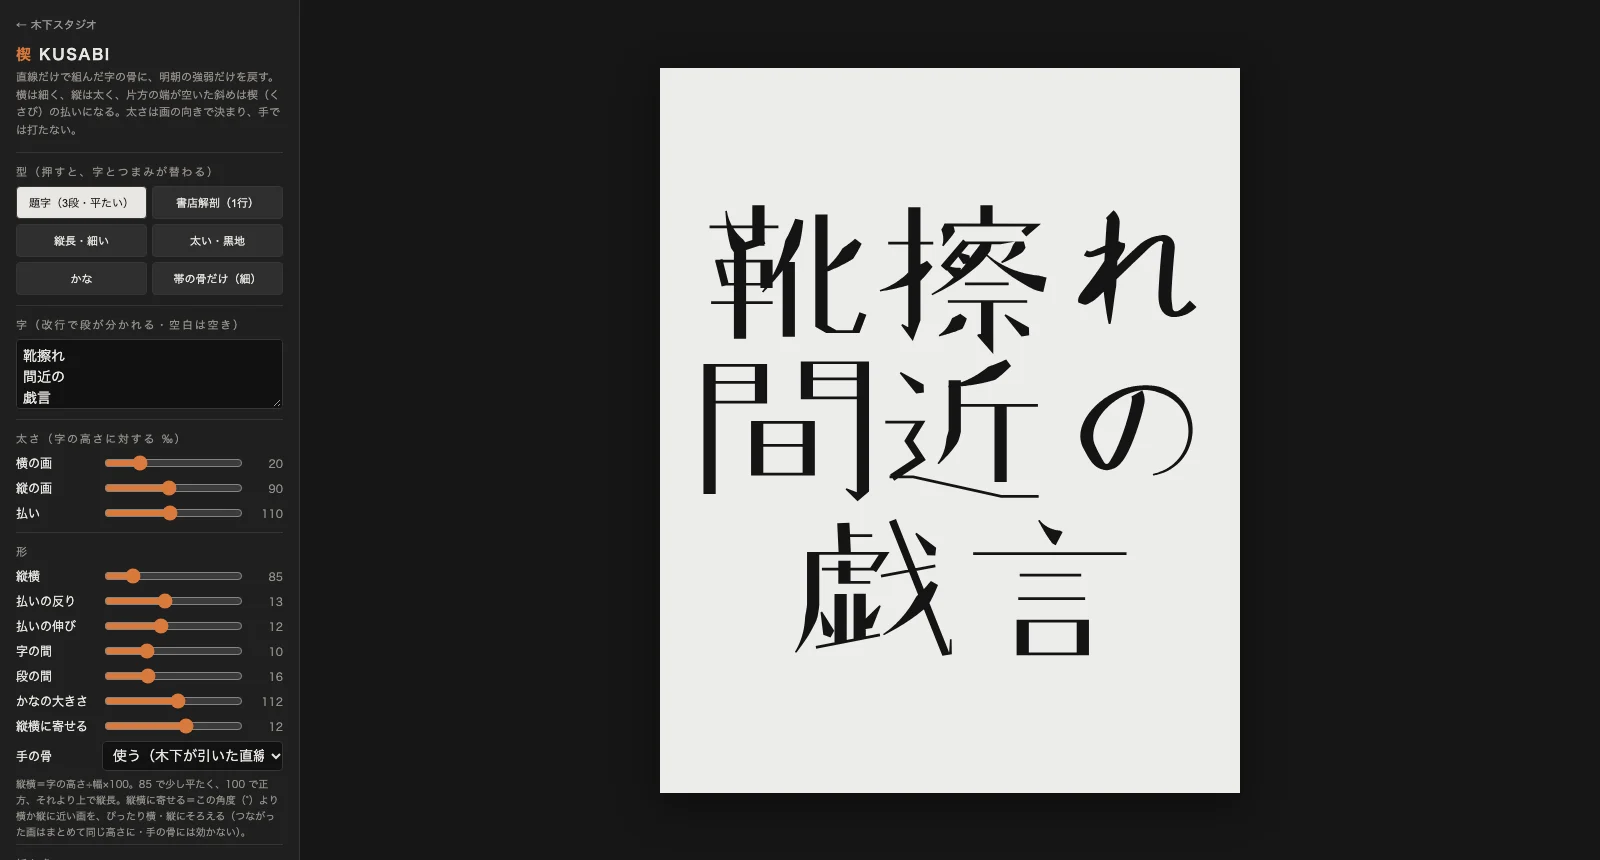
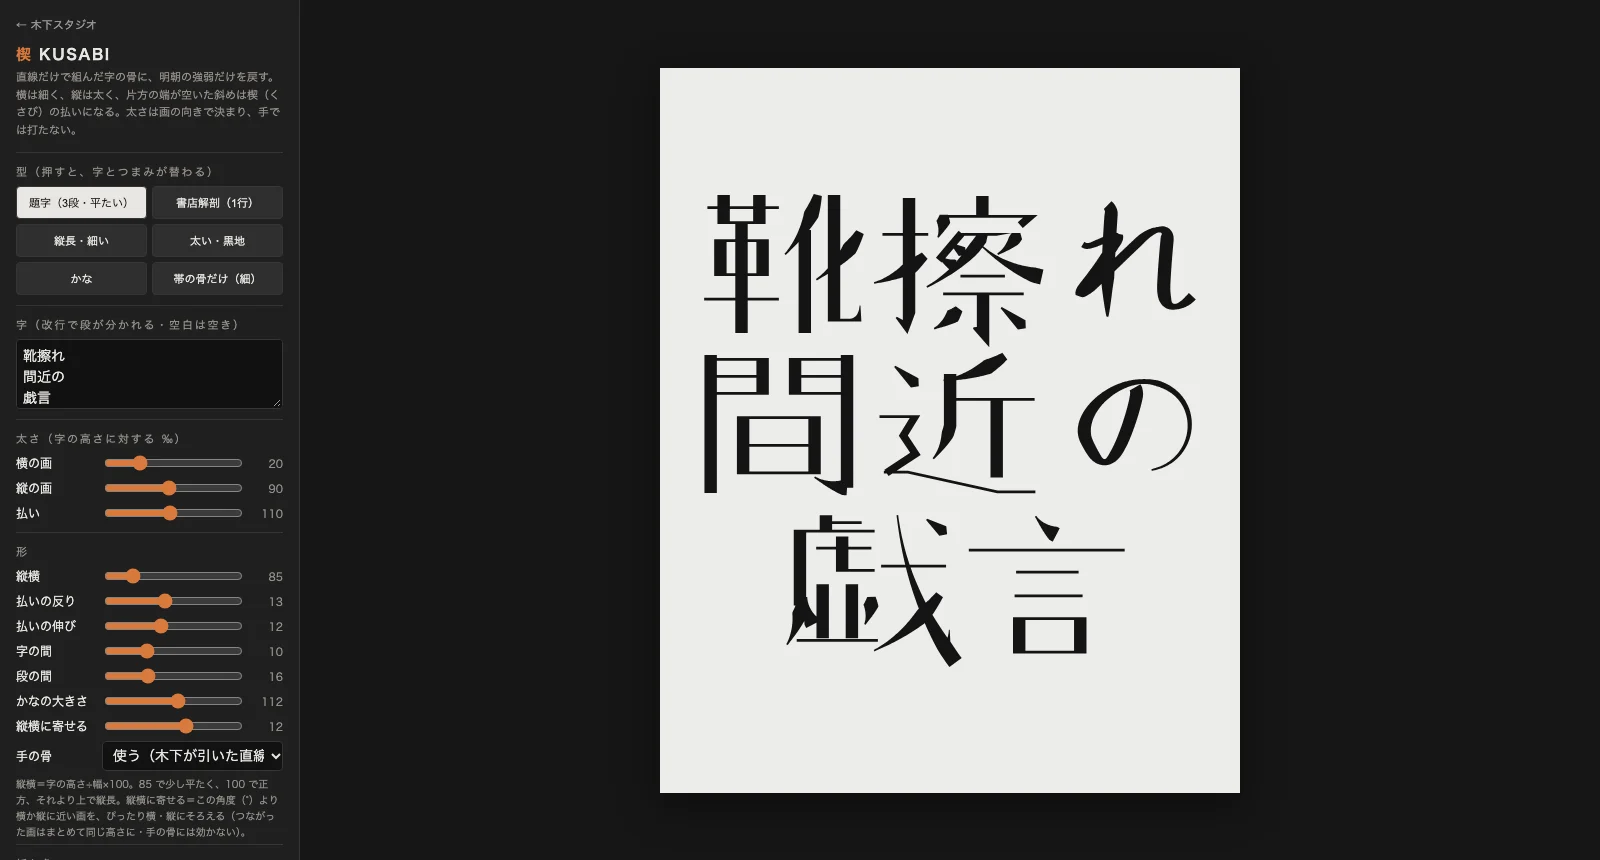
kusabi: 継ぎ目を明朝に寄せる＝はねは幹の下を回り込み内側はくぼんだ曲線で溶ける・横から立つはね（乚）も同じ・手の骨に 化 門 間 九 乙 靴 戯

Changed region(s): [[0.4375, 0.2116, 0.75, 0.5744], [0.4688, 0.6047, 0.7188, 0.786]]

diff --git a/kusabi/index.html b/kusabi/index.html
@@ -99,7 +99,7 @@ const K=['th','tv','tw','asp','bow','reach','gap','rgap','kana','snap','margin']
 const TXT=['txt','hand','paper','c0','c1','bg','outpx'];
 const v=id=>+$(id).value;
 // 木下が引いた直線の骨（幅100×高さ260 の枠の線分）
-const HAND={"開":[[8,0,8,260],[92,0,92,260],[8,8,44,8],[8,40,44,40],[8,72,44,72],[44,8,44,72],[56,8,92,8],[56,40,92,40],[56,72,92,72],[56,8,56,72],[22,128,78,128],[14,172,86,172],[40,128,30,236],[62,128,62,236]],"業":[[38,6,38,84],[62,6,62,84],[14,30,26,62],[86,30,74,62],[6,84,94,84],[20,114,80,114],[10,144,90,144],[4,178,96,178],[50,84,50,260],[50,188,8,252],[50,188,92,252]],"記":[[17,2,22,18],[0,34,40,34],[6,66,34,66],[6,96,34,96],[4,126,4,204],[36,126,36,204],[4,126,36,126],[4,204,36,204],[52,20,94,20],[94,20,94,112],[56,112,94,112],[56,112,56,236],[56,236,96,236],[96,236,96,210]],"念":[[50,0,6,84],[50,0,94,84],[34,98,66,98],[16,128,82,128],[82,128,54,170],[2,192,8,226],[32,186,32,250],[32,250,86,250],[86,250,94,226],[50,190,58,216],[78,184,88,210]],"懲":[[22,0,4,28],[24,36,2,68],[14,52,14,164],[34,6,34,24],[50,0,50,24],[66,6,66,24],[34,24,66,24],[30,42,70,42],[34,66,66,66],[36,94,64,94],[30,124,70,124],[50,66,50,124],[82,2,74,30],[76,24,98,24],[95,24,70,140],[76,66,98,140],[8,198,4,234],[30,180,30,250],[30,250,86,250],[86,250,94,226],[52,186,60,212],[80,180,90,206]],"前":[[28,0,36,24],[72,0,64,24],[2,40,98,40],[12,70,12,210],[12,210,4,256],[12,70,52,70],[52,70,52,256],[52,256,40,248],[12,130,52,130],[12,188,52,188],[74,80,74,200],[92,64,92,256],[92,256,80,246]],"毖":[[16,8,16,100],[16,54,42,44],[16,100,44,90],[60,6,60,98],[60,98,94,98],[94,98,94,82],[88,36,60,58],[8,170,4,214],[34,146,34,244],[34,244,86,244],[86,244,94,218],[52,150,60,180],[84,140,94,170],[88,126,18,258]],"後":[[24,0,4,30],[26,40,2,74],[15,58,15,260],[58,0,40,34],[40,34,70,34],[70,34,46,78],[46,78,88,72],[80,52,92,82],[60,102,36,152],[50,128,92,128],[92,128,40,252],[60,172,98,256]],"店":[[50,0,54,18],[6,28,98,28],[10,28,10,200],[10,200,0,256],[56,44,56,140],[56,92,92,92],[28,150,28,250],[88,150,88,250],[28,150,88,150],[28,250,88,250]],"準":[[4,6,14,22],[2,46,12,62],[0,118,14,86],[42,0,30,40],[36,24,36,150],[66,0,70,14],[44,22,96,22],[48,58,92,58],[48,92,92,92],[44,126,96,126],[66,22,66,126],[0,180,100,180],[50,150,50,260]],"備":[[24,0,4,60],[14,36,14,260],[30,30,98,30],[48,6,48,54],[78,6,78,54],[32,72,96,72],[38,72,30,256],[52,100,52,250],[92,100,92,256],[52,100,92,100],[52,150,92,150],[52,200,92,200],[72,100,72,240],[92,256,82,248]],"書":[[20,10,80,10],[80,10,80,94],[6,36,94,36],[20,62,80,62],[10,94,90,94],[50,0,50,124],[2,124,98,124],[20,150,20,256],[80,150,80,256],[20,150,80,150],[20,203,80,203],[20,256,80,256]],"解":[[20,0,4,30],[20,8,40,8],[40,8,28,34],[8,40,8,256],[8,40,44,40],[44,40,44,256],[44,256,34,248],[8,110,44,110],[8,176,44,176],[26,40,26,176],[58,10,96,10],[96,10,96,90],[96,90,86,82],[76,10,56,96],[66,120,58,150],[60,140,96,140],[54,190,100,190],[78,110,78,260]],"剖":[[30,0,34,20],[4,32,60,32],[16,48,24,94],[50,48,42,94],[0,104,62,104],[8,140,8,250],[54,140,54,250],[8,140,54,140],[8,250,54,250],[74,30,74,190],[94,10,94,256],[94,256,82,246]],"出":[[50,0,50,256],[14,20,14,120],[14,120,86,120],[86,120,86,20],[4,140,4,256],[4,256,96,256],[96,256,96,140]],"張":[[4,10,38,10],[38,10,38,80],[6,80,38,80],[6,80,6,150],[6,150,40,150],[40,150,36,250],[36,250,24,242],[60,4,60,124],[60,4,94,4],[60,44,90,44],[60,84,90,84],[50,124,100,124],[62,124,56,256],[56,256,74,232],[80,124,100,256],[76,190,98,150]],"無":[[30,0,10,40],[24,20,94,20],[4,64,96,64],[2,130,98,130],[28,20,28,130],[50,20,50,130],[72,20,72,130],[8,180,2,240],[36,180,40,240],[64,180,68,240],[90,176,98,236]],"料":[[10,10,16,40],[40,10,32,40],[0,60,48,60],[24,0,24,256],[24,60,2,160],[24,60,46,140],[62,30,72,54],[60,80,72,104],[52,150,100,136],[84,0,84,260]],"火":[[10,60,18,110],[90,56,80,110],[50,0,50,140],[50,140,2,256],[50,140,98,256]],"気":[[30,0,6,60],[24,26,94,26],[24,64,84,64],[14,100,78,100],[78,100,86,240],[86,240,100,228],[22,140,60,220],[60,140,18,230]],"厳":[[20,0,26,16],[48,0,50,18],[80,0,72,18],[4,30,98,30],[10,30,10,190],[10,190,0,256],[22,56,56,56],[28,56,28,240],[52,56,52,250],[28,110,52,110],[28,160,52,160],[20,220,60,206],[76,48,66,90],[70,80,100,80],[96,80,64,250],[70,140,100,250]],"全":[[50,0,4,72],[50,0,96,72],[22,104,78,104],[16,172,84,172],[4,250,96,250],[50,104,50,250]],"力":[[6,62,90,62],[90,62,86,250],[86,250,70,238],[46,0,46,140],[46,140,6,256]],"ー":[[2,130,98,130]],"：":[[25,86,25,104],[25,178,25,196]],"・":[[25,126,25,140]],"禁":[[0,30,46,30],[24,0,24,120],[24,30,2,96],[24,30,46,80],[54,30,100,30],[76,0,76,120],[76,30,54,96],[76,30,98,90],[22,144,78,144],[4,180,96,180],[50,180,50,256],[50,256,38,246],[24,206,6,240],[76,206,94,240]],"消":[[6,30,22,56],[2,104,20,128],[2,240,24,170],[44,10,52,40],[70,0,70,50],[96,10,88,40],[44,70,44,256],[44,70,94,70],[94,70,94,256],[94,256,80,248],[44,130,94,130],[44,190,94,190]],"部":[[22,0,26,20],[4,30,54,30],[14,46,20,90],[44,46,38,90],[2,100,56,100],[8,130,8,250],[8,130,50,130],[50,130,50,250],[8,250,50,250],[70,10,70,260],[70,10,96,10],[96,10,80,80],[80,80,96,140],[96,140,72,170]],"見":[[14,0,14,170],[86,0,86,170],[14,0,86,0],[14,56,86,56],[14,112,86,112],[14,170,86,170],[36,170,4,256],[64,170,64,240],[64,240,98,240]],"小":[[50,0,50,250],[50,250,34,236],[24,90,4,200],[76,90,96,200]],"作":[[30,0,4,110],[18,70,18,260],[50,0,38,70],[44,40,98,40],[54,40,54,260],[54,120,94,120],[54,190,94,190]],"完":[[50,0,50,20],[6,30,6,70],[6,30,94,30],[94,30,94,70],[24,90,76,90],[4,140,96,140],[36,140,6,256],[64,140,64,240],[64,240,98,240]],"成":[[8,64,96,64],[12,64,12,190],[12,190,0,256],[12,128,44,128],[44,128,40,214],[40,214,26,208],[58,0,62,120],[62,120,98,250],[96,140,46,254],[80,12,94,34]],"五":[[10,10,90,10],[44,10,30,240],[16,110,80,110],[80,110,76,240],[2,248,98,248]],"金":[[50,0,4,80],[50,0,96,80],[26,100,74,100],[10,150,90,150],[50,100,50,250],[24,180,34,220],[76,180,66,220],[2,252,98,252]],"百":[[2,8,98,8],[52,8,40,70],[12,70,12,256],[88,70,88,256],[12,70,88,70],[12,162,88,162],[12,256,88,256]],"集":[[28,0,6,60],[18,30,18,130],[18,30,94,30],[56,0,52,130],[18,80,88,80],[18,130,96,130],[2,178,98,178],[50,130,50,260],[50,186,4,250],[50,186,96,250]],"木":[[2,72,98,72],[50,0,50,260],[50,84,6,206],[50,84,94,206]],"下":[[2,20,98,20],[44,20,44,260],[44,110,90,150]],"字":[[50,0,50,22],[6,32,6,74],[6,32,94,32],[94,32,94,74],[20,100,80,100],[80,100,50,140],[50,140,50,250],[50,250,32,240],[2,170,98,170]],"音":[[50,0,50,22],[10,30,90,30],[28,46,36,84],[72,46,64,84],[2,100,98,100],[16,124,16,256],[84,124,84,256],[16,124,84,124],[16,190,84,190],[16,256,84,256]],"波":[[6,30,22,56],[2,104,20,128],[2,240,24,170],[42,56,98,56],[98,56,92,96],[70,0,70,130],[42,56,42,150],[42,150,32,256],[48,140,92,140],[92,140,44,256],[58,180,98,256]],"粒":[[10,40,16,72],[40,40,34,72],[2,98,48,98],[25,0,25,260],[25,112,4,190],[25,112,46,170],[76,0,76,30],[56,42,98,42],[62,74,70,180],[92,74,84,180],[54,250,98,250]],"光":[[50,0,50,110],[16,30,28,90],[84,30,72,90],[2,116,98,116],[36,116,30,200],[30,200,4,256],[64,116,64,236],[64,236,98,236]],"0":[[30,0,70,0],[70,0,96,40],[96,40,96,220],[96,220,70,260],[70,260,30,260],[30,260,4,220],[4,220,4,40],[4,40,30,0]],"1":[[60,0,60,260],[60,0,22,52]],"2":[[6,48,34,4],[34,4,70,4],[70,4,94,44],[94,44,94,96],[94,96,6,256],[6,256,96,256]],"3":[[6,32,30,4],[30,4,72,4],[72,4,94,30],[94,30,94,100],[94,100,70,126],[36,126,70,126],[70,126,96,156],[96,156,96,226],[96,226,70,256],[70,256,28,256],[28,256,4,228]],"4":[[66,0,4,180],[4,180,98,180],[70,90,70,260]],"5":[[92,4,14,4],[14,4,8,122],[8,122,70,104],[70,104,96,140],[96,140,96,222],[96,222,68,256],[68,256,26,256],[26,256,4,226]],"6":[[88,22,64,2],[64,2,32,2],[32,2,4,40],[4,40,4,220],[4,220,30,256],[30,256,70,256],[70,256,96,220],[96,220,96,150],[96,150,70,116],[70,116,4,124]],"7":[[4,4,96,4],[96,4,40,260]],"8":[[30,0,70,0],[70,0,90,26],[90,26,90,100],[90,100,70,124],[70,124,30,124],[30,124,10,100],[10,100,10,26],[10,26,30,0],[30,124,4,150],[4,150,4,226],[4,226,30,256],[30,256,70,256],[70,256,96,226],[96,226,96,150],[96,150,70,124]],"9":[[12,238,36,258],[36,258,68,258],[68,258,96,220],[96,220,96,40],[96,40,70,4],[70,4,30,4],[30,4,4,40],[4,40,4,110],[4,110,30,144],[30,144,96,136]],"中":[[10,60,10,190],[90,60,90,190],[10,60,90,60],[10,190,90,190],[50,0,50,260]],"預":[[6,20,44,20],[44,20,24,62],[10,84,48,84],[48,84,40,104],[28,62,28,250],[28,250,16,240],[54,10,98,10],[76,10,70,40],[58,40,58,190],[94,40,94,190],[58,40,94,40],[58,90,94,90],[58,140,94,140],[58,190,94,190],[66,190,52,256],[86,190,98,256]],"札":[[2,70,46,70],[24,0,24,260],[24,90,2,190],[24,90,44,150],[64,10,64,236],[64,236,80,252],[80,252,98,252],[98,252,98,200]],"古":[[2,62,98,62],[50,0,50,124],[14,124,14,256],[86,124,86,256],[14,124,86,124],[14,256,86,256]],"本":[[2,72,98,72],[50,0,50,260],[50,84,4,200],[50,84,96,200],[26,206,74,206]],"市":[[50,0,50,30],[2,40,98,40],[14,90,14,232],[14,90,86,90],[86,90,86,232],[86,232,72,222],[50,40,50,260]],"領":[[26,0,2,60],[26,0,48,60],[18,72,34,86],[6,112,46,112],[46,112,38,144],[26,144,26,252],[54,10,98,10],[76,10,70,40],[58,40,58,190],[94,40,94,190],[58,40,94,40],[58,90,94,90],[58,140,94,140],[58,190,94,190],[66,190,52,256],[86,190,98,256]],"収":[[10,40,10,204],[10,204,34,184],[34,8,34,250],[50,40,92,40],[92,40,48,252],[58,96,98,252]],"¥":[[10,0,50,110],[90,0,50,110],[50,110,50,260],[14,146,86,146],[14,196,86,196]],",":[[32,200,20,250]],"-":[[10,130,90,130]],"之":[[44,0,56,34],[10,66,86,66],[86,66,16,184],[16,184,4,250],[16,184,98,248]],"印":[[40,6,8,32],[8,32,8,222],[8,124,40,124],[8,222,44,204],[56,22,94,22],[94,22,94,200],[94,200,80,190],[56,22,56,260]],"香":[[80,4,32,26],[2,56,98,56],[50,14,50,124],[50,62,4,120],[50,62,96,120],[14,136,86,136],[14,136,14,260],[86,136,86,260],[14,198,86,198],[14,258,86,258]],"氷":[[12,40,28,70],[52,0,52,250],[52,250,36,232],[6,100,36,100],[36,100,2,210],[94,60,58,124],[58,124,98,252]],"余":[[50,0,0,98],[50,0,100,98],[26,104,74,104],[6,150,94,150],[50,104,50,258],[40,180,2,250],[62,180,94,240]],"韻":[[22,22,34,36],[2,44,48,44],[12,54,28,86],[42,52,24,88],[0,98,58,98],[6,112,6,252],[6,112,58,112],[6,182,58,182],[6,252,58,252],[58,0,58,50],[96,0,96,50],[58,0,96,0],[58,50,96,50],[58,64,58,206],[96,64,96,206],[58,64,96,64],[58,112,96,112],[58,160,96,160],[58,206,96,206],[70,212,30,262],[82,212,104,258]]};
+const HAND={"開":[[8,0,8,260],[92,0,92,260],[8,8,44,8],[8,40,44,40],[8,72,44,72],[44,8,44,72],[56,8,92,8],[56,40,92,40],[56,72,92,72],[56,8,56,72],[22,128,78,128],[14,172,86,172],[40,128,30,236],[62,128,62,236]],"業":[[38,6,38,84],[62,6,62,84],[14,30,26,62],[86,30,74,62],[6,84,94,84],[20,114,80,114],[10,144,90,144],[4,178,96,178],[50,84,50,260],[50,188,8,252],[50,188,92,252]],"記":[[17,2,22,18],[0,34,40,34],[6,66,34,66],[6,96,34,96],[4,126,4,204],[36,126,36,204],[4,126,36,126],[4,204,36,204],[52,20,94,20],[94,20,94,112],[56,112,94,112],[56,112,56,236],[56,236,96,236],[96,236,96,210]],"念":[[50,0,6,84],[50,0,94,84],[34,98,66,98],[16,128,82,128],[82,128,54,170],[2,192,8,226],[32,186,32,250],[32,250,86,250],[86,250,94,226],[50,190,58,216],[78,184,88,210]],"懲":[[22,0,4,28],[24,36,2,68],[14,52,14,164],[34,6,34,24],[50,0,50,24],[66,6,66,24],[34,24,66,24],[30,42,70,42],[34,66,66,66],[36,94,64,94],[30,124,70,124],[50,66,50,124],[82,2,74,30],[76,24,98,24],[95,24,70,140],[76,66,98,140],[8,198,4,234],[30,180,30,250],[30,250,86,250],[86,250,94,226],[52,186,60,212],[80,180,90,206]],"前":[[28,0,36,24],[72,0,64,24],[2,40,98,40],[12,70,12,210],[12,210,4,256],[12,70,52,70],[52,70,52,256],[52,256,40,248],[12,130,52,130],[12,188,52,188],[74,80,74,200],[92,64,92,256],[92,256,80,246]],"毖":[[16,8,16,100],[16,54,42,44],[16,100,44,90],[60,6,60,98],[60,98,94,98],[94,98,94,82],[88,36,60,58],[8,170,4,214],[34,146,34,244],[34,244,86,244],[86,244,94,218],[52,150,60,180],[84,140,94,170],[88,126,18,258]],"後":[[24,0,4,30],[26,40,2,74],[15,58,15,260],[58,0,40,34],[40,34,70,34],[70,34,46,78],[46,78,88,72],[80,52,92,82],[60,102,36,152],[50,128,92,128],[92,128,40,252],[60,172,98,256]],"店":[[50,0,54,18],[6,28,98,28],[10,28,10,200],[10,200,0,256],[56,44,56,140],[56,92,92,92],[28,150,28,250],[88,150,88,250],[28,150,88,150],[28,250,88,250]],"準":[[4,6,14,22],[2,46,12,62],[0,118,14,86],[42,0,30,40],[36,24,36,150],[66,0,70,14],[44,22,96,22],[48,58,92,58],[48,92,92,92],[44,126,96,126],[66,22,66,126],[0,180,100,180],[50,150,50,260]],"備":[[24,0,4,60],[14,36,14,260],[30,30,98,30],[48,6,48,54],[78,6,78,54],[32,72,96,72],[38,72,30,256],[52,100,52,250],[92,100,92,256],[52,100,92,100],[52,150,92,150],[52,200,92,200],[72,100,72,240],[92,256,82,248]],"書":[[20,10,80,10],[80,10,80,94],[6,36,94,36],[20,62,80,62],[10,94,90,94],[50,0,50,124],[2,124,98,124],[20,150,20,256],[80,150,80,256],[20,150,80,150],[20,203,80,203],[20,256,80,256]],"解":[[20,0,4,30],[20,8,40,8],[40,8,28,34],[8,40,8,256],[8,40,44,40],[44,40,44,256],[44,256,34,248],[8,110,44,110],[8,176,44,176],[26,40,26,176],[58,10,96,10],[96,10,96,90],[96,90,86,82],[76,10,56,96],[66,120,58,150],[60,140,96,140],[54,190,100,190],[78,110,78,260]],"剖":[[30,0,34,20],[4,32,60,32],[16,48,24,94],[50,48,42,94],[0,104,62,104],[8,140,8,250],[54,140,54,250],[8,140,54,140],[8,250,54,250],[74,30,74,190],[94,10,94,256],[94,256,82,246]],"出":[[50,0,50,256],[14,20,14,120],[14,120,86,120],[86,120,86,20],[4,140,4,256],[4,256,96,256],[96,256,96,140]],"張":[[4,10,38,10],[38,10,38,80],[6,80,38,80],[6,80,6,150],[6,150,40,150],[40,150,36,250],[36,250,24,242],[60,4,60,124],[60,4,94,4],[60,44,90,44],[60,84,90,84],[50,124,100,124],[62,124,56,256],[56,256,74,232],[80,124,100,256],[76,190,98,150]],"無":[[30,0,10,40],[24,20,94,20],[4,64,96,64],[2,130,98,130],[28,20,28,130],[50,20,50,130],[72,20,72,130],[8,180,2,240],[36,180,40,240],[64,180,68,240],[90,176,98,236]],"料":[[10,10,16,40],[40,10,32,40],[0,60,48,60],[24,0,24,256],[24,60,2,160],[24,60,46,140],[62,30,72,54],[60,80,72,104],[52,150,100,136],[84,0,84,260]],"火":[[10,60,18,110],[90,56,80,110],[50,0,50,140],[50,140,2,256],[50,140,98,256]],"気":[[30,0,6,60],[24,26,94,26],[24,64,84,64],[14,100,78,100],[78,100,86,240],[86,240,100,228],[22,140,60,220],[60,140,18,230]],"厳":[[20,0,26,16],[48,0,50,18],[80,0,72,18],[4,30,98,30],[10,30,10,190],[10,190,0,256],[22,56,56,56],[28,56,28,240],[52,56,52,250],[28,110,52,110],[28,160,52,160],[20,220,60,206],[76,48,66,90],[70,80,100,80],[96,80,64,250],[70,140,100,250]],"全":[[50,0,4,72],[50,0,96,72],[22,104,78,104],[16,172,84,172],[4,250,96,250],[50,104,50,250]],"力":[[6,62,90,62],[90,62,86,250],[86,250,70,238],[46,0,46,140],[46,140,6,256]],"ー":[[2,130,98,130]],"：":[[25,86,25,104],[25,178,25,196]],"・":[[25,126,25,140]],"禁":[[0,30,46,30],[24,0,24,120],[24,30,2,96],[24,30,46,80],[54,30,100,30],[76,0,76,120],[76,30,54,96],[76,30,98,90],[22,144,78,144],[4,180,96,180],[50,180,50,256],[50,256,38,246],[24,206,6,240],[76,206,94,240]],"消":[[6,30,22,56],[2,104,20,128],[2,240,24,170],[44,10,52,40],[70,0,70,50],[96,10,88,40],[44,70,44,256],[44,70,94,70],[94,70,94,256],[94,256,80,248],[44,130,94,130],[44,190,94,190]],"部":[[22,0,26,20],[4,30,54,30],[14,46,20,90],[44,46,38,90],[2,100,56,100],[8,130,8,250],[8,130,50,130],[50,130,50,250],[8,250,50,250],[70,10,70,260],[70,10,96,10],[96,10,80,80],[80,80,96,140],[96,140,72,170]],"見":[[14,0,14,170],[86,0,86,170],[14,0,86,0],[14,56,86,56],[14,112,86,112],[14,170,86,170],[36,170,4,256],[64,170,64,240],[64,240,98,240]],"小":[[50,0,50,250],[50,250,34,236],[24,90,4,200],[76,90,96,200]],"作":[[30,0,4,110],[18,70,18,260],[50,0,38,70],[44,40,98,40],[54,40,54,260],[54,120,94,120],[54,190,94,190]],"完":[[50,0,50,20],[6,30,6,70],[6,30,94,30],[94,30,94,70],[24,90,76,90],[4,140,96,140],[36,140,6,256],[64,140,64,240],[64,240,98,240]],"成":[[8,64,96,64],[12,64,12,190],[12,190,0,256],[12,128,44,128],[44,128,40,214],[40,214,26,208],[58,0,62,120],[62,120,98,250],[96,140,46,254],[80,12,94,34]],"五":[[10,10,90,10],[44,10,30,240],[16,110,80,110],[80,110,76,240],[2,248,98,248]],"金":[[50,0,4,80],[50,0,96,80],[26,100,74,100],[10,150,90,150],[50,100,50,250],[24,180,34,220],[76,180,66,220],[2,252,98,252]],"百":[[2,8,98,8],[52,8,40,70],[12,70,12,256],[88,70,88,256],[12,70,88,70],[12,162,88,162],[12,256,88,256]],"集":[[28,0,6,60],[18,30,18,130],[18,30,94,30],[56,0,52,130],[18,80,88,80],[18,130,96,130],[2,178,98,178],[50,130,50,260],[50,186,4,250],[50,186,96,250]],"木":[[2,72,98,72],[50,0,50,260],[50,84,6,206],[50,84,94,206]],"下":[[2,20,98,20],[44,20,44,260],[44,110,90,150]],"字":[[50,0,50,22],[6,32,6,74],[6,32,94,32],[94,32,94,74],[20,100,80,100],[80,100,50,140],[50,140,50,250],[50,250,32,240],[2,170,98,170]],"音":[[50,0,50,22],[10,30,90,30],[28,46,36,84],[72,46,64,84],[2,100,98,100],[16,124,16,256],[84,124,84,256],[16,124,84,124],[16,190,84,190],[16,256,84,256]],"波":[[6,30,22,56],[2,104,20,128],[2,240,24,170],[42,56,98,56],[98,56,92,96],[70,0,70,130],[42,56,42,150],[42,150,32,256],[48,140,92,140],[92,140,44,256],[58,180,98,256]],"粒":[[10,40,16,72],[40,40,34,72],[2,98,48,98],[25,0,25,260],[25,112,4,190],[25,112,46,170],[76,0,76,30],[56,42,98,42],[62,74,70,180],[92,74,84,180],[54,250,98,250]],"光":[[50,0,50,110],[16,30,28,90],[84,30,72,90],[2,116,98,116],[36,116,30,200],[30,200,4,256],[64,116,64,236],[64,236,98,236]],"0":[[30,0,70,0],[70,0,96,40],[96,40,96,220],[96,220,70,260],[70,260,30,260],[30,260,4,220],[4,220,4,40],[4,40,30,0]],"1":[[60,0,60,260],[60,0,22,52]],"2":[[6,48,34,4],[34,4,70,4],[70,4,94,44],[94,44,94,96],[94,96,6,256],[6,256,96,256]],"3":[[6,32,30,4],[30,4,72,4],[72,4,94,30],[94,30,94,100],[94,100,70,126],[36,126,70,126],[70,126,96,156],[96,156,96,226],[96,226,70,256],[70,256,28,256],[28,256,4,228]],"4":[[66,0,4,180],[4,180,98,180],[70,90,70,260]],"5":[[92,4,14,4],[14,4,8,122],[8,122,70,104],[70,104,96,140],[96,140,96,222],[96,222,68,256],[68,256,26,256],[26,256,4,226]],"6":[[88,22,64,2],[64,2,32,2],[32,2,4,40],[4,40,4,220],[4,220,30,256],[30,256,70,256],[70,256,96,220],[96,220,96,150],[96,150,70,116],[70,116,4,124]],"7":[[4,4,96,4],[96,4,40,260]],"8":[[30,0,70,0],[70,0,90,26],[90,26,90,100],[90,100,70,124],[70,124,30,124],[30,124,10,100],[10,100,10,26],[10,26,30,0],[30,124,4,150],[4,150,4,226],[4,226,30,256],[30,256,70,256],[70,256,96,226],[96,226,96,150],[96,150,70,124]],"9":[[12,238,36,258],[36,258,68,258],[68,258,96,220],[96,220,96,40],[96,40,70,4],[70,4,30,4],[30,4,4,40],[4,40,4,110],[4,110,30,144],[30,144,96,136]],"中":[[10,60,10,190],[90,60,90,190],[10,60,90,60],[10,190,90,190],[50,0,50,260]],"預":[[6,20,44,20],[44,20,24,62],[10,84,48,84],[48,84,40,104],[28,62,28,250],[28,250,16,240],[54,10,98,10],[76,10,70,40],[58,40,58,190],[94,40,94,190],[58,40,94,40],[58,90,94,90],[58,140,94,140],[58,190,94,190],[66,190,52,256],[86,190,98,256]],"札":[[2,70,46,70],[24,0,24,260],[24,90,2,190],[24,90,44,150],[64,10,64,236],[64,236,80,252],[80,252,98,252],[98,252,98,200]],"古":[[2,62,98,62],[50,0,50,124],[14,124,14,256],[86,124,86,256],[14,124,86,124],[14,256,86,256]],"本":[[2,72,98,72],[50,0,50,260],[50,84,4,200],[50,84,96,200],[26,206,74,206]],"市":[[50,0,50,30],[2,40,98,40],[14,90,14,232],[14,90,86,90],[86,90,86,232],[86,232,72,222],[50,40,50,260]],"領":[[26,0,2,60],[26,0,48,60],[18,72,34,86],[6,112,46,112],[46,112,38,144],[26,144,26,252],[54,10,98,10],[76,10,70,40],[58,40,58,190],[94,40,94,190],[58,40,94,40],[58,90,94,90],[58,140,94,140],[58,190,94,190],[66,190,52,256],[86,190,98,256]],"収":[[10,40,10,204],[10,204,34,184],[34,8,34,250],[50,40,92,40],[92,40,48,252],[58,96,98,252]],"¥":[[10,0,50,110],[90,0,50,110],[50,110,50,260],[14,146,86,146],[14,196,86,196]],",":[[32,200,20,250]],"-":[[10,130,90,130]],"之":[[44,0,56,34],[10,66,86,66],[86,66,16,184],[16,184,4,250],[16,184,98,248]],"印":[[40,6,8,32],[8,32,8,222],[8,124,40,124],[8,222,44,204],[56,22,94,22],[94,22,94,200],[94,200,80,190],[56,22,56,260]],"香":[[80,4,32,26],[2,56,98,56],[50,14,50,124],[50,62,4,120],[50,62,96,120],[14,136,86,136],[14,136,14,260],[86,136,86,260],[14,198,86,198],[14,258,86,258]],"氷":[[12,40,28,70],[52,0,52,250],[52,250,36,232],[6,100,36,100],[36,100,2,210],[94,60,58,124],[58,124,98,252]],"余":[[50,0,0,98],[50,0,100,98],[26,104,74,104],[6,150,94,150],[50,104,50,258],[40,180,2,250],[62,180,94,240]],"韻":[[22,22,34,36],[2,44,48,44],[12,54,28,86],[42,52,24,88],[0,98,58,98],[6,112,6,252],[6,112,58,112],[6,182,58,182],[6,252,58,252],[58,0,58,50],[96,0,96,50],[58,0,96,0],[58,50,96,50],[58,64,58,206],[96,64,96,206],[58,64,96,64],[58,112,96,112],[58,160,96,160],[58,206,96,206],[70,212,30,262],[82,212,104,258]],"化":[[30,0,4,110],[18,70,18,260],[60,0,60,236],[60,236,96,236],[96,236,96,204],[98,66,44,150]],"門":[[8,0,8,260],[8,8,40,8],[8,40,40,40],[8,72,40,72],[40,8,40,72],[60,8,92,8],[60,40,92,40],[60,72,92,72],[60,8,60,72],[92,0,92,250],[92,250,72,230]],"間":[[8,0,8,260],[8,8,40,8],[8,40,40,40],[8,72,40,72],[40,8,40,72],[60,8,92,8],[60,40,92,40],[60,72,92,72],[60,8,60,72],[92,0,92,250],[92,250,72,230],[28,118,72,118],[28,118,28,222],[72,118,72,222],[28,170,72,170],[28,222,72,222]],"九":[[4,72,66,72],[40,0,38,100],[38,100,2,250],[66,72,66,236],[66,236,98,236],[98,236,98,204]],"乙":[[8,22,88,22],[88,22,12,222],[12,222,12,236],[12,236,94,236],[94,236,96,204]],"靴":[[6,24,50,24],[16,0,16,52],[38,0,38,52],[16,52,38,52],[14,86,40,86],[14,86,14,150],[40,86,40,150],[14,150,40,150],[27,52,27,260],[4,196,50,196],[74,0,56,100],[66,66,66,260],[84,0,84,236],[84,236,100,236],[100,236,100,208],[100,70,76,150]],"戯":[[24,0,24,30],[24,14,46,14],[8,30,54,30],[8,30,8,170],[8,170,0,244],[18,62,52,62],[34,40,34,104],[34,104,54,104],[22,130,22,232],[40,130,40,232],[12,154,16,206],[52,154,48,206],[6,236,56,236],[58,96,98,96],[68,0,100,248],[100,248,100,216],[94,150,58,244],[86,8,96,30]]};
 const WID={'：':50,'・':50,',':40,'-':70};
 const KVG='https://cdn.jsdelivr.net/gh/KanjiVG/kanjivg@r20250816/kanji/';
 const isKana=c=>c>='぀'&&c<='ヿ'&&!'・ー'.includes(c);
@@ -213,6 +213,7 @@ function boneGlyph(segs,P,H,o,out,extra){
   const plan=[];
   S.forEach(({a,b,pa,pb})=>{let ea=deg.get(a)>1,eb=deg.get(b)>1;
     const k=kind(pa,pb),L=dist(pa,pb);
+    if(k!=='横'&&ea!==eb&&L<.13*H&&(ea?pb[1]<pa[1]:pa[1]<pb[1])){if(eb){[a,b,pa,pb]=[b,a,pb,pa]}plan.push([a,b,pa,pb,hv*.85,tip,'はね']);return}   // 縦でも、つながった端から短く上へ＝はね（乚・記の終わり）
     if(k==='横'){plan.push([a,b,pa,pb,hh,hh,false]);return}
     if(k==='縦'){plan.push([a,b,pa,pb,hv,hv,false]);return}
     if(ea!==eb&&L<.1*H&&(ea?pb[1]<pa[1]:pa[1]<pb[1])){if(eb){[a,b,pa,pb]=[b,a,pb,pa]}plan.push([a,b,pa,pb,hv*.85,tip,'はね']);return}
@@ -232,7 +233,15 @@ function boneGlyph(segs,P,H,o,out,extra){
     if(cut==='左'||cut==='右'){const p0=xa?back(pa,pb,xa*.9):pa;
       out.push(sweep(p0,pb,ha,hb,Math.max(hw,ha),cut,o.bow,dist(pa,pb)>.3*H?o.reach:0));return}
     if(cut==='点'){const q=stroke(pa,pb,ha,hb,0,0);out.push(q);const l=dist(pa,pb),ux=(pb[0]-pa[0])/l,uy=(pb[1]-pa[1])/l;out.push([q[1],[pb[0]+ux*hb*.9,pb[1]+uy*hb*.9],q[2]]);return}
-    if(cut==='はね'){out.push(stroke(pa,pb,ha,hb,xa*.9,0));return}
+    if(cut==='はね'){const st=plan.find((r,j)=>j!==i&&(r[0]===a||r[1]===a)&&kind(r[2],r[3])==='縦');
+      if(!st){const l=dist(pa,pb),ux=(pb[0]-pa[0])/l,uy=(pb[1]-pa[1])/l,w0=hv*1.15;const q=[[pa[0]-w0*1.6,pa[1]+hh],[pa[0]+hh,pa[1]+hh]];for(let k=1;k<=10;k++){const t=k/10;q.push([pa[0]+hh+(pb[0]+tip*.5-pa[0]-hh)*t,pa[1]+hh+(pb[1]-pa[1]-hh)*t])}   // 外側＝まっすぐ立ち上がる
+        for(let k=0;k<=12;k++){const t=k/12,c=[pa[0]-w0*.2,pa[1]-hh];q.push([(1-t)**2*(pb[0]-tip*.5)+2*(1-t)*t*c[0]+t*t*(pa[0]-w0*1.6),(1-t)**2*pb[1]+2*(1-t)*t*c[1]+t*t*(pa[1]-hh)])}   // 内側＝くぼんだ曲線で横画へ溶ける
+        out.push(q);return}
+      const far=st[0]===a?st[3]:st[2],J=pa,Ls=dist(far,J)||1,u=[(J[0]-far[0])/Ls,(J[1]-far[1])/Ls],Lh=dist(pa,pb),d=[(pb[0]-pa[0])/Lh,(pb[1]-pa[1])/Lh];
+      const du=d[0]*u[0]+d[1]*u[1];let sv=[d[0]-du*u[0],d[1]-du*u[1]];const sl=Math.hypot(...sv)||1;sv=[sv[0]/sl,sv[1]/sl];
+      const W=st[4],P_=(p,a1,b1)=>[J[0]+sv[0]*a1+u[0]*b1,J[1]+sv[1]*a1+u[1]*b1];
+      const A=P_(0,0).map((x,k)=>x-sv[k]*W),C1=P_(0,W*.8),C2=P_(W,0),B=P_(W,-Lh*.6),D=P_(-W,-Lh*.6),q=[A],qq=(p0,c,p1,n)=>{for(let k=1;k<=n;k++){const t=k/n;q.push([(1-t)**2*p0[0]+2*(1-t)*t*c[0]+t*t*p1[0],(1-t)**2*p0[1]+2*(1-t)*t*c[1]+t*t*p1[1]])}};
+      qq(A,C1,pb,14);qq(pb,C2,B,14);q.push(D);out.push(q);return}
     const q=stroke(pa,pb,ha,hb,xa,xb,cut);out.push(q);if(fa)addH(a,[q[0],q[3]]);if(fb)addH(b,[q[1],q[2]])});
   hulls.forEach(p=>out.push(hullOf(p)))}
 
